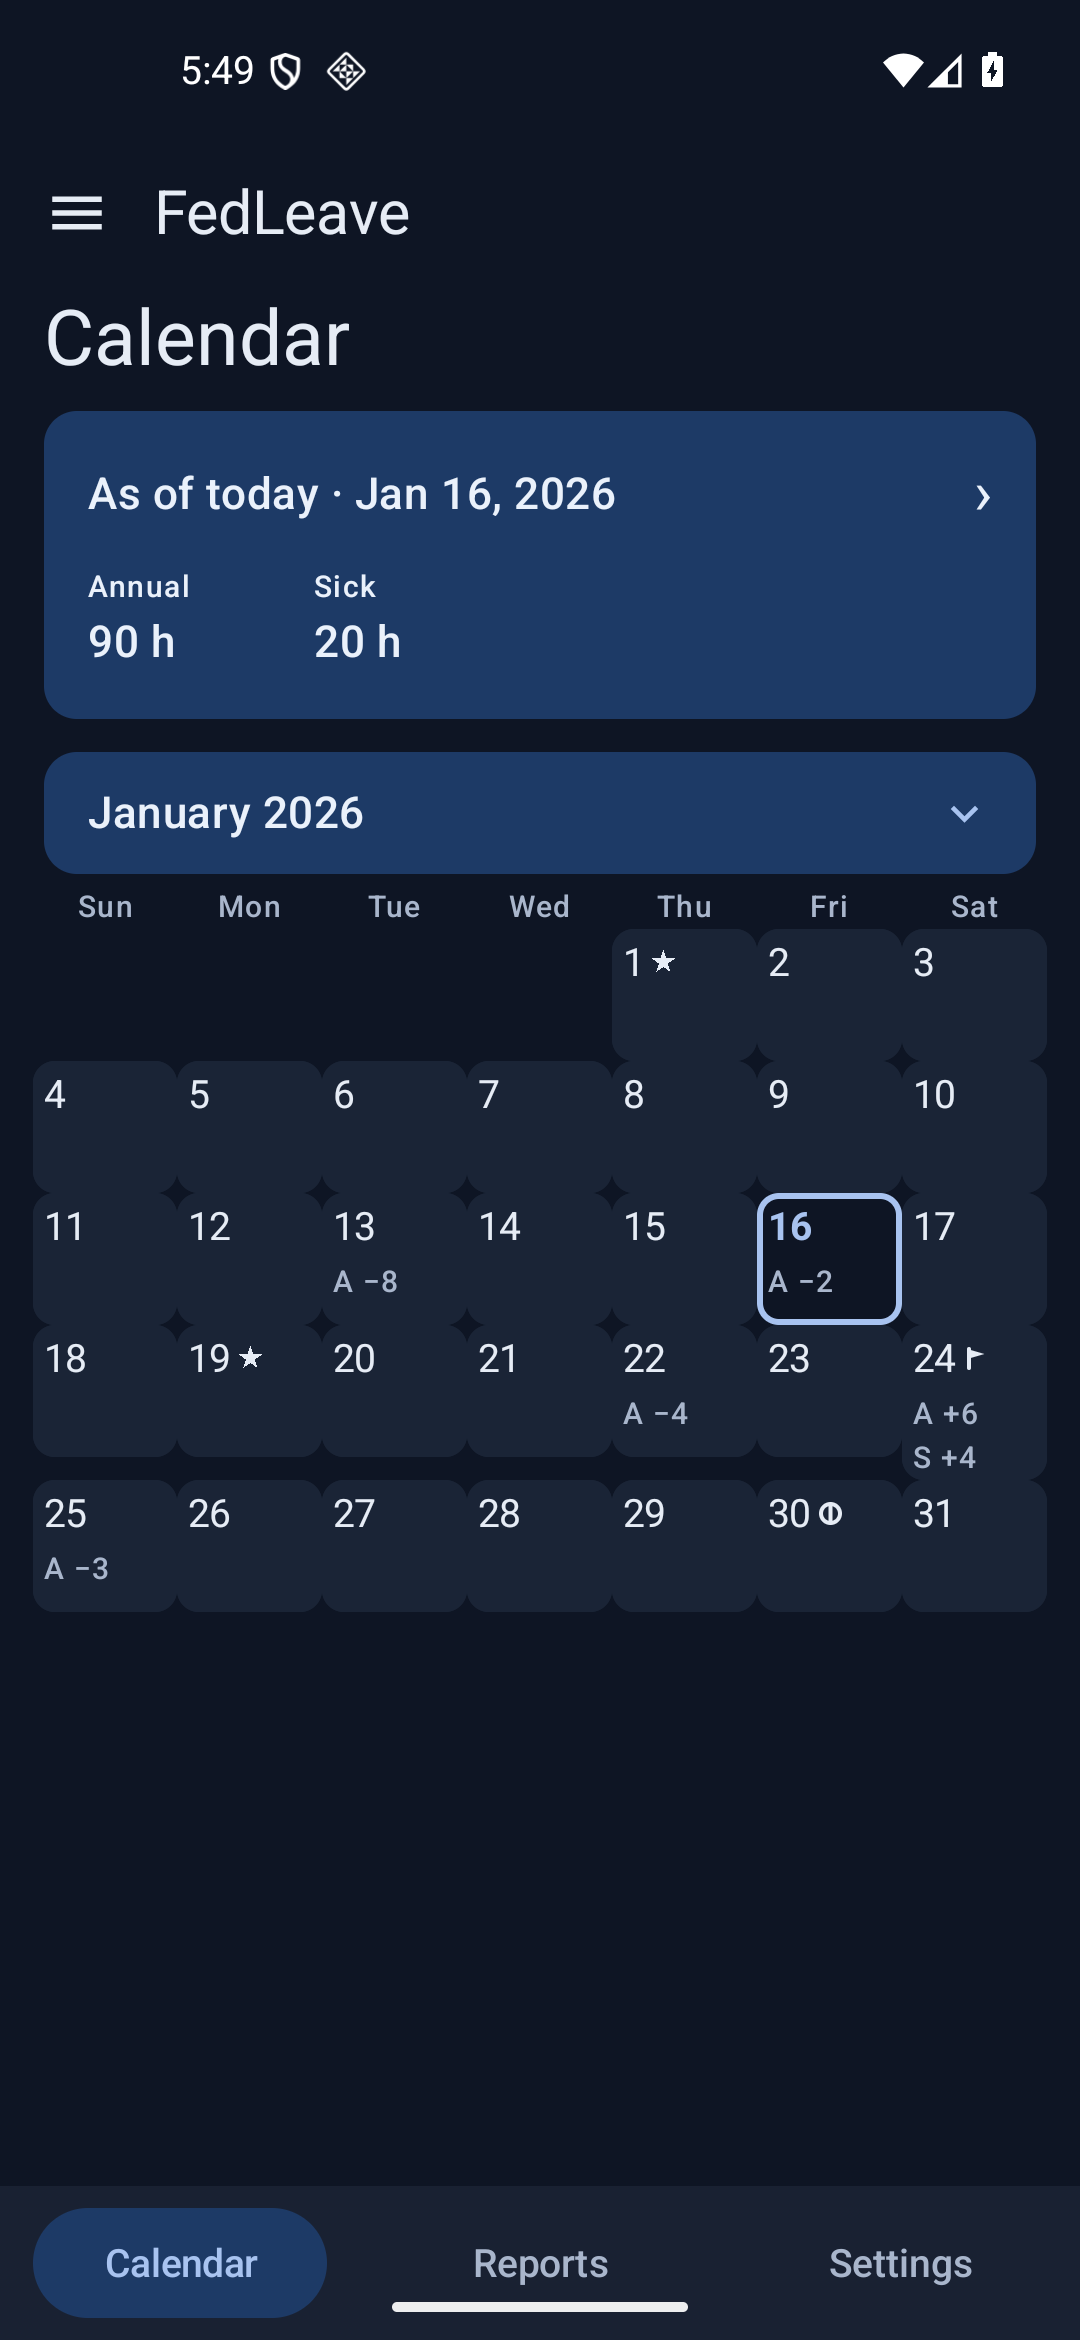
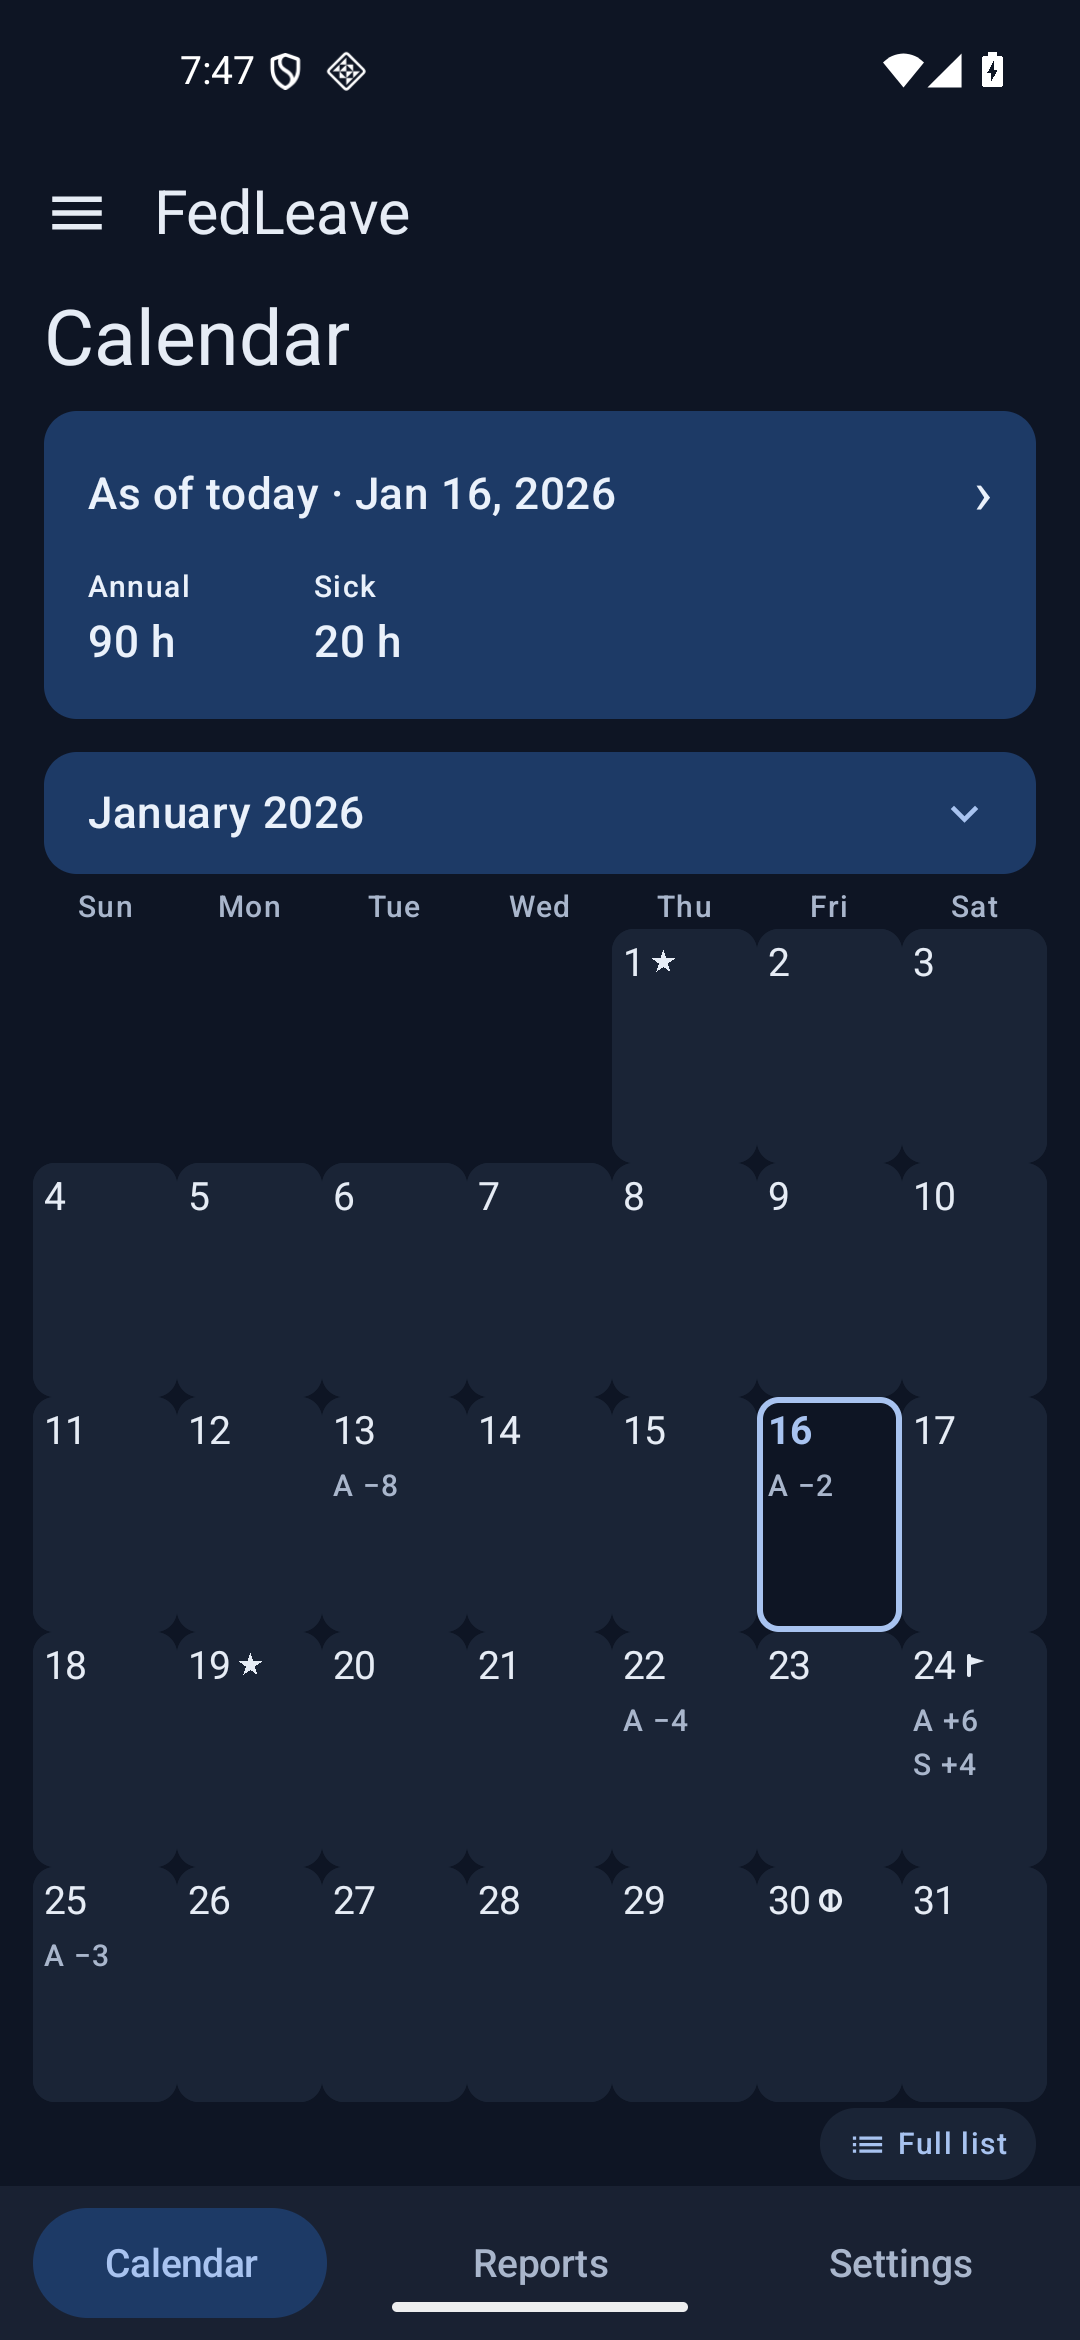
I05-02 owner revision: stretched uniform grid, fixed-size grid text, manual Full list toggle

diff --git a/android/app/src/main/java/com/westmouthbay/fedleave/calendar/CalendarScreen.kt b/android/app/src/main/java/com/westmouthbay/fedleave/calendar/CalendarScreen.kt
@@ -10,6 +10,7 @@ import androidx.compose.foundation.layout.Column
 import androidx.compose.foundation.layout.PaddingValues
 import androidx.compose.foundation.layout.Row
 import androidx.compose.foundation.layout.Spacer
+import androidx.compose.foundation.layout.fillMaxHeight
 import androidx.compose.foundation.layout.fillMaxSize
 import androidx.compose.foundation.layout.fillMaxWidth
 import androidx.compose.foundation.layout.height
@@ -21,10 +22,11 @@ import androidx.compose.foundation.lazy.LazyColumn
 import androidx.compose.foundation.lazy.items
 import androidx.compose.foundation.lazy.rememberLazyListState
 import androidx.compose.foundation.rememberScrollState
-import androidx.compose.foundation.shape.CircleShape
 import androidx.compose.foundation.shape.RoundedCornerShape
 import androidx.compose.foundation.verticalScroll
 import androidx.compose.material.icons.Icons
+import androidx.compose.material.icons.automirrored.filled.List
+import androidx.compose.material.icons.filled.DateRange
 import androidx.compose.material.icons.filled.KeyboardArrowDown
 import androidx.compose.material.icons.filled.Menu
 import androidx.compose.material3.CircularProgressIndicator
@@ -36,6 +38,7 @@ import androidx.compose.material3.MaterialTheme
 import androidx.compose.material3.Surface
 import androidx.compose.material3.Text
 import androidx.compose.runtime.Composable
+import androidx.compose.runtime.CompositionLocalProvider
 import androidx.compose.runtime.DisposableEffect
 import androidx.compose.runtime.collectAsState
 import androidx.compose.runtime.getValue
@@ -55,6 +58,8 @@ import androidx.compose.ui.semantics.contentDescription
 import androidx.compose.ui.semantics.semantics
 import androidx.compose.ui.text.font.FontWeight
 import androidx.compose.ui.text.style.TextAlign
+import androidx.compose.ui.unit.Density
+import androidx.compose.ui.unit.Dp
 import androidx.compose.ui.unit.DpOffset
 import androidx.compose.ui.unit.dp
 import com.westmouthbay.fedleave.R
@@ -78,6 +83,10 @@ fun CalendarScreen(
 ) {
     val state by viewModel.state.collectAsState()
     var menuExpanded by remember { mutableStateOf(false) }
+    // Manual "full list" mode: the user switches between the grid and the
+    // full-width day list with the small toggle above the bottom bar. The
+    // grid no longer switches itself on the system font scale.
+    var fullListMode by rememberSaveable { mutableStateOf(false) }
     val context = LocalContext.current
 
     Column(
@@ -162,6 +171,7 @@ fun CalendarScreen(
                     selectedDay = state.selectedDay,
                     today = state.today,
                     settings = viewModel.displaySettings,
+                    fullListMode = fullListMode,
                     periodNumberFor = { date -> month.payPeriods.firstOrNull { it.end == date }?.number },
                     yearEndFor = { date -> viewModel.leaveYearEndFor(date) },
                     yearNumberFor = { date -> viewModel.leaveYearNumberFor(date) },
@@ -170,6 +180,10 @@ fun CalendarScreen(
                 )
             }
         }
+        FullListToggle(
+            fullListMode = fullListMode,
+            onToggle = { fullListMode = !fullListMode },
+        )
     }
 }
 
@@ -322,6 +336,7 @@ private fun CalendarGridOrList(
     selectedDay: LocalDate?,
     today: LocalDate?,
     settings: CalendarDisplaySettings,
+    fullListMode: Boolean,
     periodNumberFor: (LocalDate) -> Int?,
     yearEndFor: (LocalDate) -> LocalDate?,
     yearNumberFor: (LocalDate) -> Int?,
@@ -329,11 +344,9 @@ private fun CalendarGridOrList(
     onOpenDay: (LocalDate) -> Unit,
 ) {
     BoxWithConstraints(modifier = Modifier.fillMaxSize()) {
-        // The grid needs seven readable 48 dp targets AND a font scale that
-        // keeps the cell annotations legible; otherwise the full-width day
-        // list keeps every date and amount intact.
-        val fontScale = LocalDensity.current.fontScale
-        if (maxWidth < 7.dp * 48 || fontScale >= 1.3f) {
+        // The full-width day list appears in manual mode or when seven
+        // readable 48 dp targets physically cannot fit the screen width.
+        if (fullListMode || maxWidth < 7.dp * 48) {
             DayList(
                 month = month,
                 settings = settings,
@@ -350,6 +363,7 @@ private fun CalendarGridOrList(
                 selectedDay = selectedDay,
                 today = today,
                 settings = settings,
+                maxHeight = maxHeight,
                 periodNumberFor = periodNumberFor,
                 yearEndFor = yearEndFor,
                 yearNumberFor = yearNumberFor,
@@ -367,6 +381,7 @@ private fun MonthGrid(
     selectedDay: LocalDate?,
     today: LocalDate?,
     settings: CalendarDisplaySettings,
+    maxHeight: Dp,
     periodNumberFor: (LocalDate) -> Int?,
     yearEndFor: (LocalDate) -> LocalDate?,
     yearNumberFor: (LocalDate) -> Int?,
@@ -380,13 +395,13 @@ private fun MonthGrid(
     DisposableEffect(Unit) {
         onDispose { savedScroll = gridScrollState.value }
     }
-    Column(
-        modifier = Modifier
-            .fillMaxSize()
-            .verticalScroll(gridScrollState)
-            .padding(horizontal = 12.dp),
+    // The grid keeps its base font size regardless of the system font-scale
+    // setting: the at-a-glance calendar must not clip or reflow at large
+    // text. Everything else in the app keeps scaling.
+    val density = LocalDensity.current
+    CompositionLocalProvider(
+        LocalDensity provides Density(density.density, fontScale = 1f),
     ) {
-        WeekdayHeader(settings.weekStart)
         // The mockups render only the days of the displayed month, with
         // blank cells for the leading and trailing adjacent dates.
         val inMonth = month.days.filter { it.inDisplayMonth }
@@ -396,38 +411,121 @@ private fun MonthGrid(
         val slots: List<MonthDay?> =
             List(leading) { null } + inMonth
         val paddedSlots = slots + List((7 - slots.size % 7) % 7) { null }
-        paddedSlots.chunked(7).forEach { week ->
-            Row(modifier = Modifier.fillMaxWidth()) {
-                week.forEach { day ->
-                    if (day == null) {
-                        Spacer(Modifier.weight(1f))
-                    } else {
-                        val yearEndNumber = if (yearEndFor(day.date) == day.date) {
-                            yearNumberFor(day.date)
-                        } else {
-                            null
-                        }
-                        DayCell(
-                            day = day,
-                            isSelected = day.date == selectedDay,
-                            isToday = day.date == today,
-                            markers = markersFor(
-                                day,
-                                settings,
-                                periodNumberFor(day.date),
-                                yearEndNumber,
-                                context,
-                            ),
-                            context = context,
-                            onClick = { onOpenDay(day.date) },
-                            modifier = Modifier.weight(1f),
-                        )
-                    }
+        val rows = paddedSlots.chunked(7)
+
+        val headerHeight = 20.dp
+        val fitsWithoutScroll =
+            rows.isNotEmpty() && maxHeight > headerHeight + MIN_ROW_HEIGHT * rows.size
+        if (fitsWithoutScroll) {
+            // The grid fills the space between the month selector and the
+            // bottom bar: every row — and every day cell — is exactly the
+            // same height, computed per device. Content is top-anchored.
+            Column(
+                modifier = Modifier
+                    .fillMaxSize()
+                    .padding(horizontal = 12.dp),
+            ) {
+                WeekdayHeader(settings.weekStart)
+                rows.forEach { week ->
+                    GridWeekRow(
+                        week = week,
+                        settings = settings,
+                        selectedDay = selectedDay,
+                        today = today,
+                        periodNumberFor = periodNumberFor,
+                        yearEndFor = yearEndFor,
+                        yearNumberFor = yearNumberFor,
+                        context = context,
+                        onOpenDay = onOpenDay,
+                        modifier = Modifier
+                            .fillMaxWidth()
+                            .weight(1f),
+                    )
+                }
+            }
+        } else {
+            // Short screens or a very tall month: the rows keep their
+            // minimum height and the grid scrolls instead of clipping.
+            Column(
+                modifier = Modifier
+                    .fillMaxSize()
+                    .verticalScroll(gridScrollState)
+                    .padding(horizontal = 12.dp),
+            ) {
+                WeekdayHeader(settings.weekStart)
+                rows.forEach { week ->
+                    GridWeekRow(
+                        week = week,
+                        settings = settings,
+                        selectedDay = selectedDay,
+                        today = today,
+                        periodNumberFor = periodNumberFor,
+                        yearEndFor = yearEndFor,
+                        yearNumberFor = yearNumberFor,
+                        context = context,
+                        onOpenDay = onOpenDay,
+                        modifier = Modifier
+                            .fillMaxWidth()
+                            .heightIn(min = MIN_ROW_HEIGHT),
+                    )
                 }
             }
         }
     }
 }
+
+/** One grid week: seven equal-width cells, content top-anchored. */
+@Composable
+private fun GridWeekRow(
+    week: List<MonthDay?>,
+    settings: CalendarDisplaySettings,
+    selectedDay: LocalDate?,
+    today: LocalDate?,
+    periodNumberFor: (LocalDate) -> Int?,
+    yearEndFor: (LocalDate) -> LocalDate?,
+    yearNumberFor: (LocalDate) -> Int?,
+    context: android.content.Context,
+    onOpenDay: (LocalDate) -> Unit,
+    modifier: Modifier = Modifier,
+) {
+    Row(modifier = modifier) {
+        week.forEach { day ->
+            if (day == null) {
+                Spacer(Modifier.weight(1f))
+            } else {
+                val yearEndNumber = if (yearEndFor(day.date) == day.date) {
+                    yearNumberFor(day.date)
+                } else {
+                    null
+                }
+                DayCell(
+                    day = day,
+                    isSelected = day.date == selectedDay,
+                    isToday = day.date == today,
+                    markers = markersFor(
+                        day,
+                        settings,
+                        periodNumberFor(day.date),
+                        yearEndNumber,
+                        context,
+                    ),
+                    context = context,
+                    onClick = { onOpenDay(day.date) },
+                    modifier = Modifier
+                        .weight(1f)
+                        .fillMaxHeight(),
+                )
+            }
+        }
+    }
+}
+
+/**
+ * Minimum height a grid row needs for its bounded content (day number, up to
+ * two marker rows, two activity lines and the overflow count). Used as the
+ * fill-vs-scroll threshold and the scroll-branch row minimum.
+ */
+private val MIN_ROW_HEIGHT = 56.dp
 
 @Composable
 private fun WeekdayHeader(weekStart: DayOfWeek) {
@@ -520,7 +618,6 @@ private fun DayCell(
 
     Column(
         modifier = modifier
-            .heightIn(min = 48.dp)
             .background(fill, RoundedCornerShape(8.dp))
             .border(if (highlighted) 2.dp else 1.dp, borderColor, RoundedCornerShape(8.dp))
             .clickable(onClick = onClick)
@@ -581,6 +678,53 @@ private fun DayCell(
                 color = MaterialTheme.colorScheme.onSurfaceVariant,
                 modifier = Modifier.padding(horizontal = 4.dp),
             )
+        }
+    }
+}
+
+@Composable
+private fun FullListToggle(
+    fullListMode: Boolean,
+    onToggle: () -> Unit,
+) {
+    Row(
+        modifier = Modifier
+            .fillMaxWidth()
+            .padding(horizontal = 16.dp, vertical = 2.dp),
+        horizontalArrangement = Arrangement.End,
+    ) {
+        Surface(
+            color = MaterialTheme.colorScheme.surfaceVariant,
+            shape = RoundedCornerShape(14.dp),
+            modifier = Modifier
+                .clickable(onClick = onToggle)
+                .testTag("calendar_full_list_toggle"),
+        ) {
+            Row(
+                modifier = Modifier.padding(horizontal = 10.dp, vertical = 5.dp),
+                verticalAlignment = Alignment.CenterVertically,
+            ) {
+                Icon(
+                    imageVector = if (fullListMode) {
+                        Icons.Filled.DateRange
+                    } else {
+                        Icons.AutoMirrored.Filled.List
+                    },
+                    contentDescription = null,
+                    tint = MaterialTheme.colorScheme.primary,
+                    modifier = Modifier.size(14.dp),
+                )
+                Spacer(Modifier.width(4.dp))
+                Text(
+                    text = if (fullListMode) {
+                        stringResource(R.string.calendar_grid)
+                    } else {
+                        stringResource(R.string.calendar_full_list)
+                    },
+                    style = MaterialTheme.typography.labelSmall,
+                    color = MaterialTheme.colorScheme.primary,
+                )
+            }
         }
     }
 }

diff --git a/android/app/src/androidTest/java/com/westmouthbay/fedleave/calendar/CalendarScreenTest.kt b/android/app/src/androidTest/java/com/westmouthbay/fedleave/calendar/CalendarScreenTest.kt
@@ -162,6 +162,23 @@ class CalendarScreenTest : CalendarUiTestBase() {
     }
 
     @Test
+    fun fullListToggleSwitchesBetweenGridAndList() {
+        setAppContent()
+        waitForBalanceCard()
+        // The grid is the default.
+        composeRule.onNodeWithText("Sun").assertIsDisplayed()
+        composeRule.onNodeWithTag("calendar_full_list_toggle").performClick()
+        composeRule.waitUntil(timeoutMillis = 20_000) {
+            composeRule.onAllNodesWithText("Thursday, January 1").fetchSemanticsNodes().isNotEmpty()
+        }
+        // The day list is on; the toggle now offers the grid.
+        composeRule.onNodeWithTag("calendar_full_list_toggle").performClick()
+        composeRule.waitUntil(timeoutMillis = 20_000) {
+            composeRule.onAllNodesWithText("Sun").fetchSemanticsNodes().isNotEmpty()
+        }
+    }
+
+    @Test
     fun narrowWidthFallsBackToTheDayList() {
         composeRule.setContent {
             FedLeaveTheme {

diff --git a/android/app/src/androidTest/java/com/westmouthbay/fedleave/calendar/CalendarVisualCaptureTest.kt b/android/app/src/androidTest/java/com/westmouthbay/fedleave/calendar/CalendarVisualCaptureTest.kt
@@ -62,6 +62,18 @@ class CalendarVisualCaptureTest : CalendarUiTestBase() {
 
     @OptIn(ExperimentalTestApi::class)
     @Test
+    fun captureFullListMode() {
+        setAppContent()
+        waitForBalanceCard()
+        composeRule.onNodeWithTag("calendar_full_list_toggle").performClick()
+        composeRule.waitUntil(timeoutMillis = 20_000) {
+            composeRule.onAllNodesWithText("Thursday, January 1").fetchSemanticsNodes().isNotEmpty()
+        }
+        capture("calendar-full-list")
+    }
+
+    @OptIn(ExperimentalTestApi::class)
+    @Test
     fun captureCalendarMainDark() {
         composeRule.setContent {
             FedLeaveTheme(darkTheme = true) {
